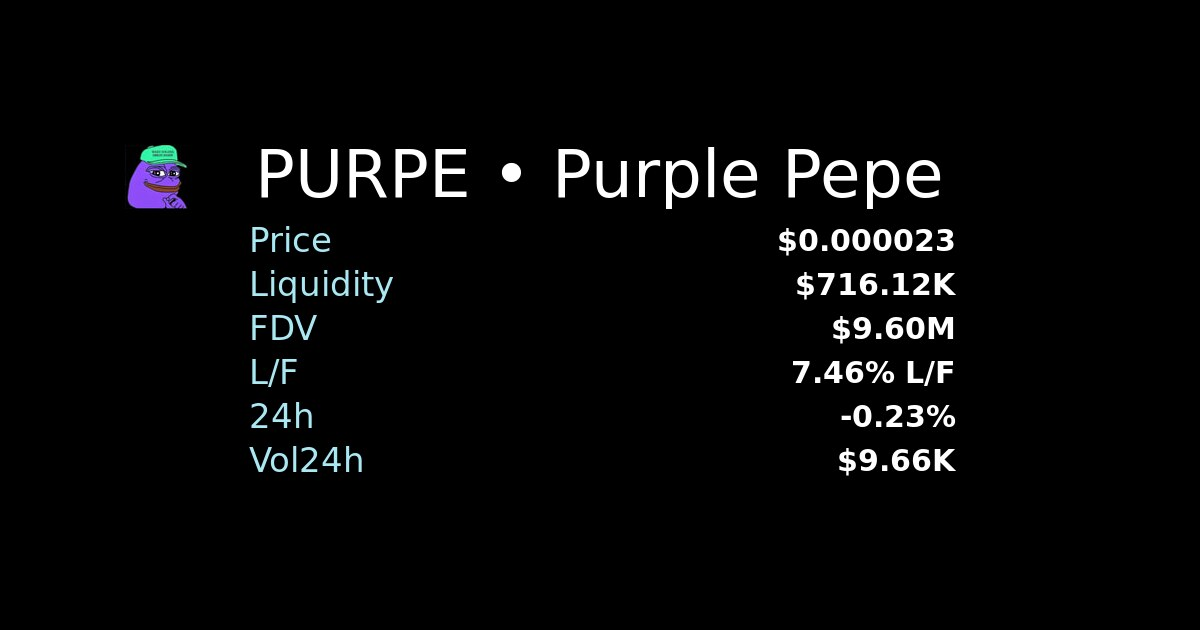
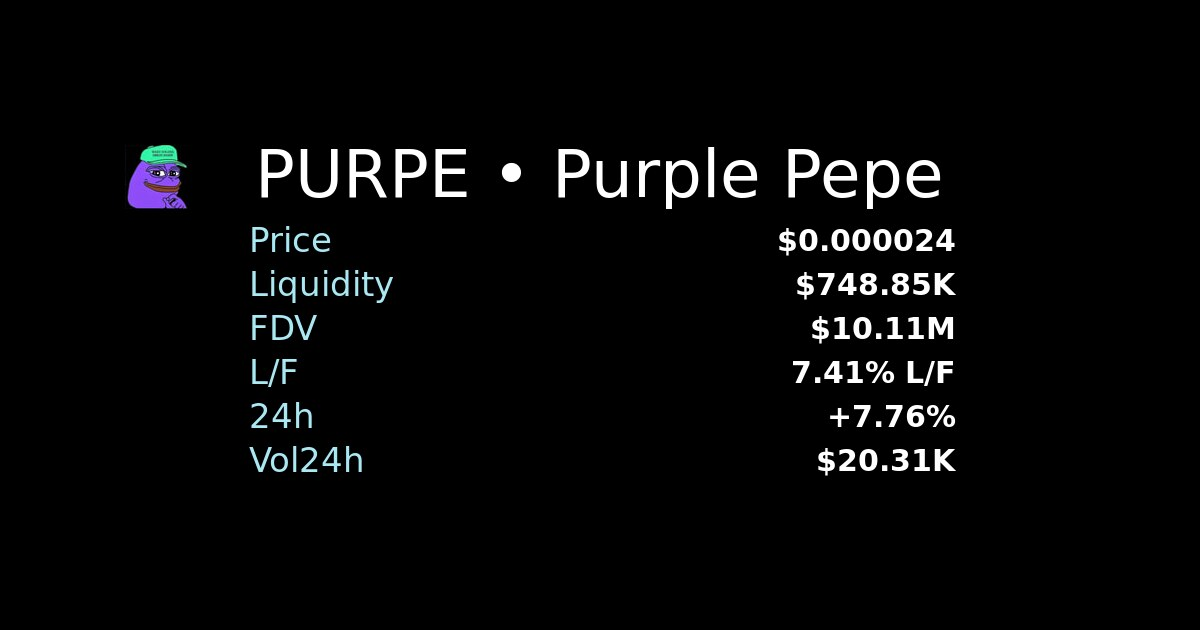
chore: update sitemap & token pages

diff --git a/token/HBoNJ5v8g71s2boRivrHnfSB5MVPLDHHyVjruPfhGkvL/index.html b/token/HBoNJ5v8g71s2boRivrHnfSB5MVPLDHHyVjruPfhGkvL/index.html
@@ -4,14 +4,14 @@
     <meta charset="utf-8" />
     <meta name="viewport" content="width=device-width,initial-scale=1" />
     <title>PURPE on Solana</title>
-    <meta name="description" content="Purple Pepe • Price: $0.000023 • Liquidity: $716.12K" />
+    <meta name="description" content="Purple Pepe • Price: $0.000024 • Liquidity: $748.85K" />
     <meta name="author" content="codekami45" />
     <meta name="keywords" content="solana, memecoin, bonk, wif, dog, inu, pepe, cat, meme, ponk, samo, purry, purr, kitty, meow, woof, frog, snek, toad, bob, dino, monke, monkey, ape, corgi, floki, elon" />
 
     <!-- OG -->
     <meta property="og:type" content="website" />
     <meta property="og:title" content="PURPE on Solana" />
-    <meta property="og:description" content="Purple Pepe • Price: $0.000023 • Liquidity: $716.12K" />
+    <meta property="og:description" content="Purple Pepe • Price: $0.000024 • Liquidity: $748.85K" />
     <meta property="og:url" content="https://fdv.lol/token/HBoNJ5v8g71s2boRivrHnfSB5MVPLDHHyVjruPfhGkvL" />
     <meta property="og:image" content="https://fdv.lol/token/HBoNJ5v8g71s2boRivrHnfSB5MVPLDHHyVjruPfhGkvL/og.jpg" />
     <meta property="og:image:width" content="1200" />
@@ -21,7 +21,7 @@
     <!-- Twitter -->
     <meta name="twitter:card" content="summary_large_image" />
     <meta name="twitter:title" content="PURPE on Solana" />
-    <meta name="twitter:description" content="Purple Pepe • Price: $0.000023 • Liquidity: $716.12K" />
+    <meta name="twitter:description" content="Purple Pepe • Price: $0.000024 • Liquidity: $748.85K" />
     <meta name="twitter:image" content="https://fdv.lol/token/HBoNJ5v8g71s2boRivrHnfSB5MVPLDHHyVjruPfhGkvL/og.jpg" />
 
     <link rel="icon" type="image/png" href="/src/assets/images/icons/fdv.lol.ico" />
@@ -35,7 +35,7 @@
       "@type": "WebSite",
       "name": "PURPE on Solana",
       "url": "https://fdv.lol/token/HBoNJ5v8g71s2boRivrHnfSB5MVPLDHHyVjruPfhGkvL",
-      "description": "Purple Pepe • Price: $0.000023 • Liquidity: $716.12K",
+      "description": "Purple Pepe • Price: $0.000024 • Liquidity: $748.85K",
       "keywords": [
         "solana",
         "memecoin",
